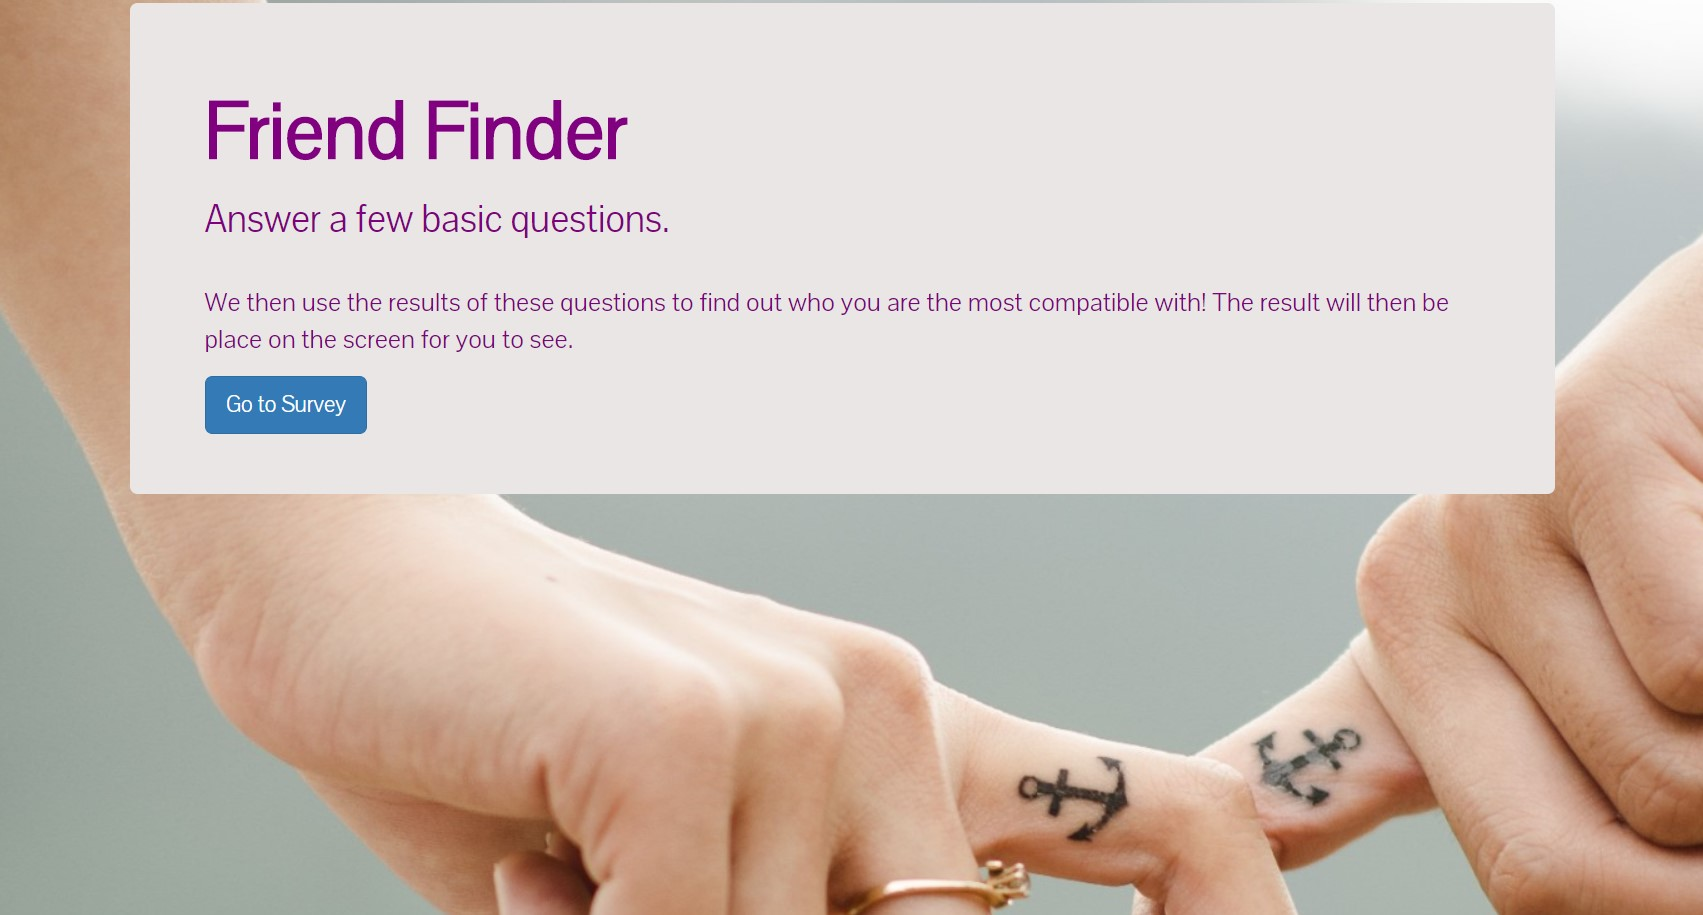
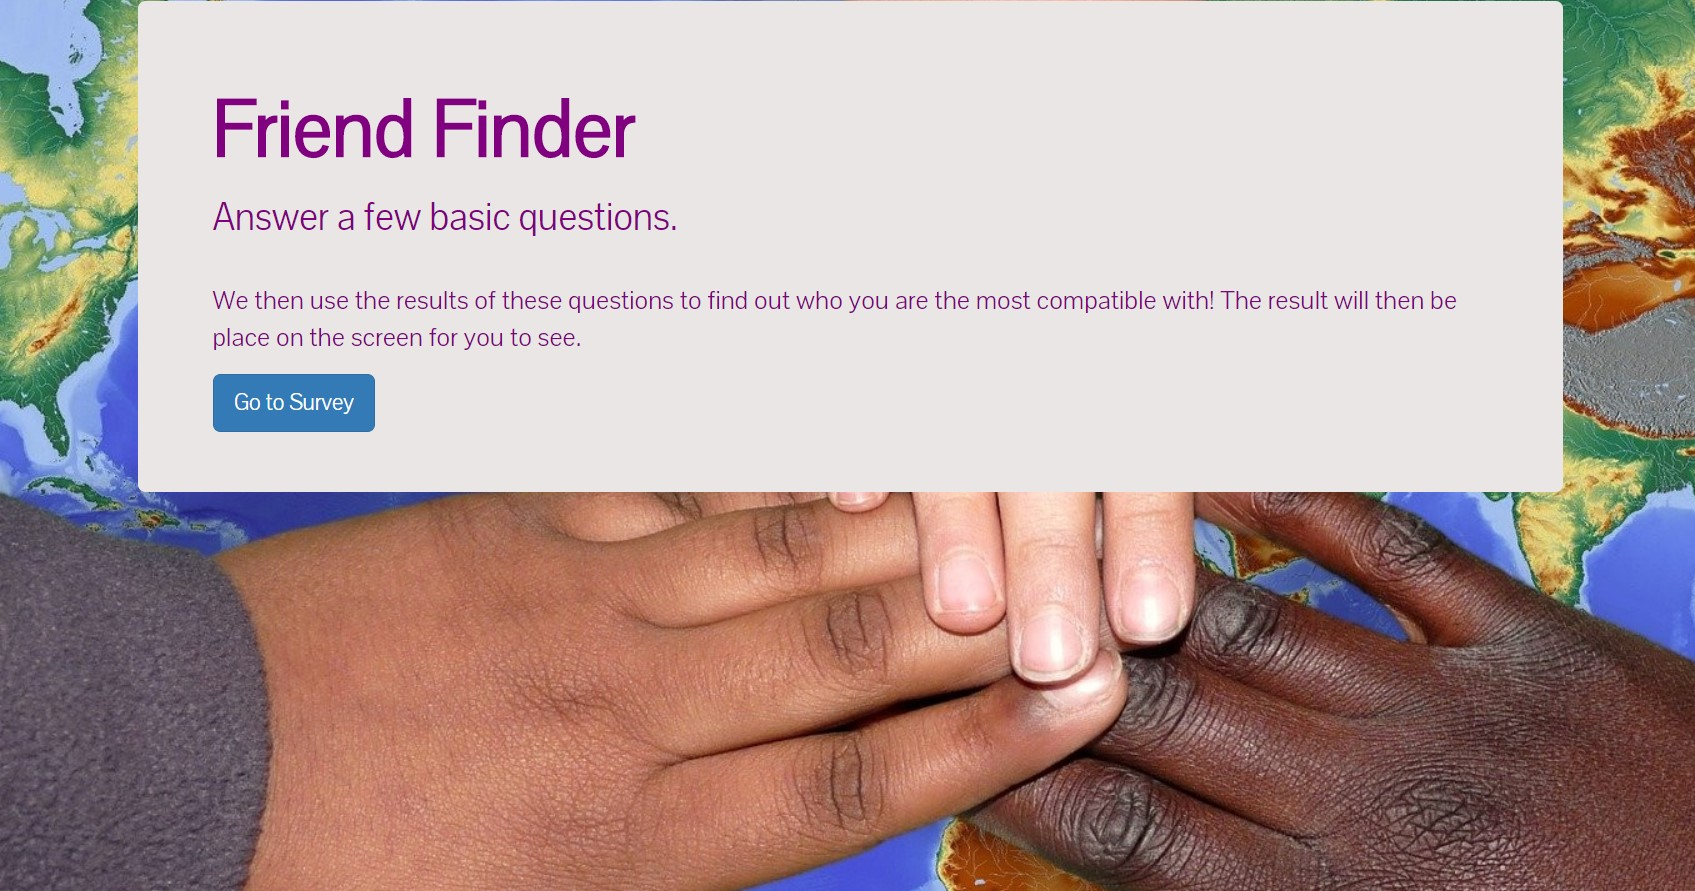
changed the styling and readme

diff --git a/app/public/css/styles2.css b/app/public/css/styles2.css
@@ -1,6 +1,6 @@
 body{
     font-family: 'Pontano Sans', sans-serif;
-    background-image: url("../images/heart.jpg");
+    background-image: url("../images/family.jpg");
     height: 100%;
     background-attachment: fixed;
     background-position: center;
@@ -23,12 +23,13 @@ body{
     background-color: black;
 }
 .modal-header {
-    background-color: rgb(247, 160, 175);
+    background-color: rgb(247, 45, 78);
     text-align: center;
 }
 .modal-footer   {
-    background-color:  rgb(247, 160, 175);
+    background-color:  rgb(247, 45, 78);
 }
 #modal-button   {
-    background-color: purple;
+    background-color: black;
+    color: white;
 }

diff --git a/app/public/css/styles.css b/app/public/css/styles.css
@@ -1,6 +1,8 @@
 body {
-    background-image: url("../images/hands.jpg");
-    
+    background-image: url("../images/myfriends.jpg");
+    /* background-position: center;
+    background-repeat: no-repeat;
+    background-size: cover; */
     color: white;
     font-family: 'Pontano Sans', sans-serif;
 }
